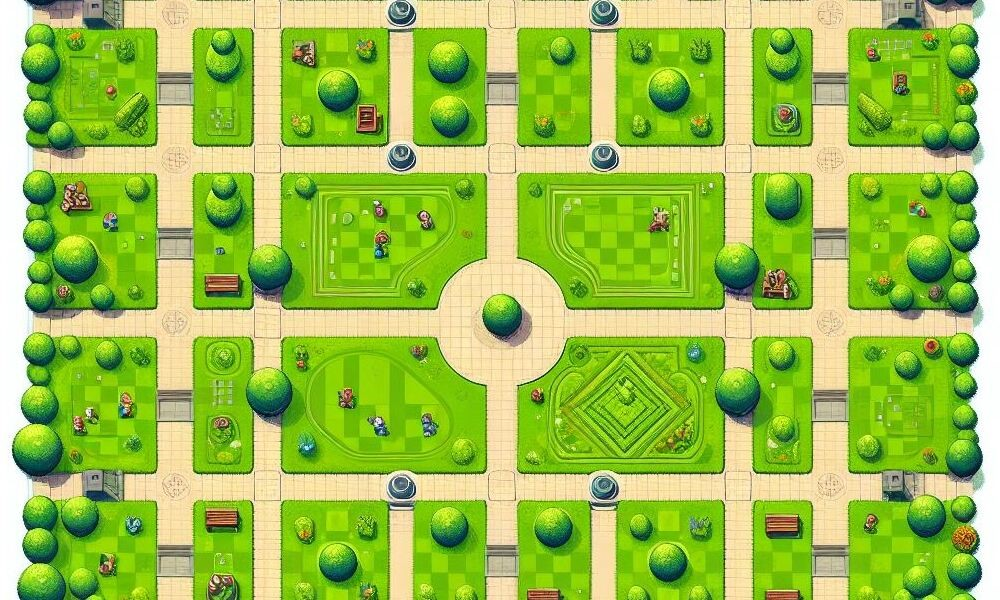
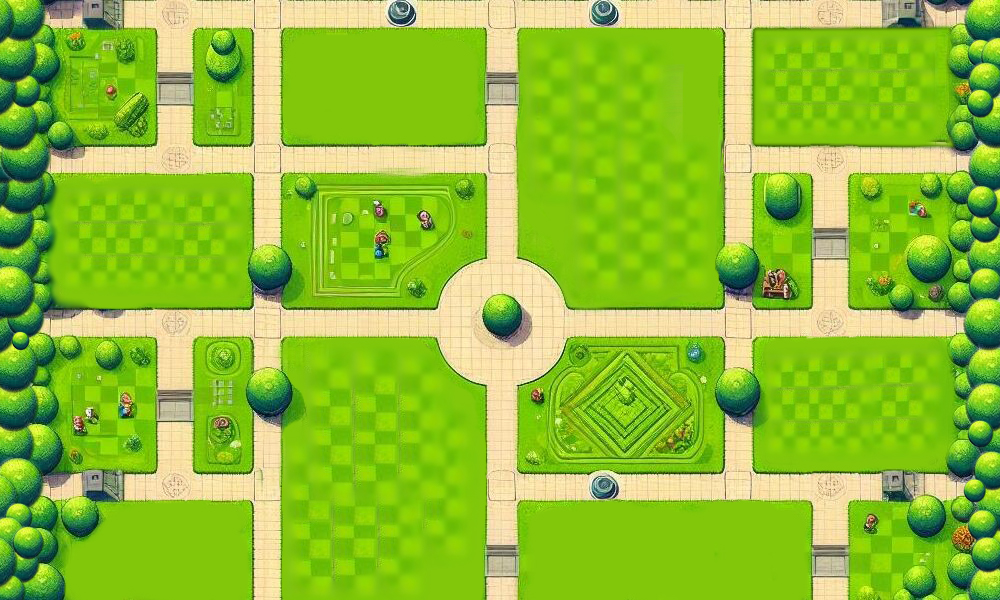
Asset changes
some images are deleted have been switched instead

diff --git a/core/src/com/mygdx/game/SportsVillage.java b/core/src/com/mygdx/game/SportsVillage.java
@@ -7,11 +7,11 @@ public class SportsVillage extends GameLocation {
     public SportsVillage() {
         energyModifier = -30;
         hoursModifier = 3;
-        locationTexture = new Texture("sports_village.jpg");
+        locationTexture = new Texture("sports_village.png");
         position = new Vector2(600, 230);
         bounds.setPosition(position);
-        bounds.width = 180;
-        bounds.height = 101;
+        bounds.width = 125;
+        bounds.height = 100;
     }
     
 }

diff --git a/core/src/com/mygdx/game/StudyBuilding.java b/core/src/com/mygdx/game/StudyBuilding.java
@@ -7,10 +7,10 @@ public class StudyBuilding extends GameLocation {
     public StudyBuilding() {
         energyModifier = -30;
         hoursModifier = 3;
-        locationTexture = new Texture("study_building.jpg");
+        locationTexture = new Texture("study_building.png");
         position = new Vector2(400, 280);
         bounds.setPosition(position);
-        bounds.width = 64;
-        bounds.height = 64;
+        bounds.width = 148;
+        bounds.height = 100;
     }
 }

diff --git a/core/src/com/mygdx/game/Restaurant.java b/core/src/com/mygdx/game/Restaurant.java
@@ -7,10 +7,10 @@ public class Restaurant extends GameLocation {
     public Restaurant() {
         energyModifier = -10;
         hoursModifier = 1;
-        locationTexture = new Texture("restaurant.jpg");
+        locationTexture = new Texture("restaurant.png");
         position = new Vector2(180, 470);
         bounds.setPosition(position);
-        bounds.width = 180;
-        bounds.height = 120;
+        bounds.width = 136;
+        bounds.height = 90;
     }
 }

diff --git a/core/src/com/mygdx/game/Charles.java b/core/src/com/mygdx/game/Charles.java
@@ -6,11 +6,11 @@ public class Charles extends GameLocation{
     public Charles() {
         energyModifier = -20;
         hoursModifier = 2;
-        locationTexture = new Texture("thecharles.jpg");
+        locationTexture = new Texture("thecharles.png");
         position = new Vector2(400, 460);
         bounds.setPosition(position);
-        bounds.width = 180;
-        bounds.height = 135;
+        bounds.width = 135;
+        bounds.height = 80;
     }
     
 }

diff --git a/core/src/com/mygdx/game/House.java b/core/src/com/mygdx/game/House.java
@@ -6,10 +6,10 @@ import com.badlogic.gdx.math.Vector2;
 public class House extends GameLocation {
     public House() {
         energyModifier = 100;
-        locationTexture = new Texture("house.jpg");
+        locationTexture = new Texture("house.png");
         position = new Vector2(100, 200);
         bounds.setPosition(position);
-        bounds.width = 180;
-        bounds.height = 120;
+        bounds.width = 93;
+        bounds.height = 100;
     }
 }

diff --git a/core/src/com/mygdx/game/Lake.java b/core/src/com/mygdx/game/Lake.java
@@ -7,10 +7,10 @@ public class Lake extends GameLocation {
     public Lake() {
         energyModifier = -20;
         hoursModifier = 1;
-        locationTexture = new Texture("lake.jpg");
+        locationTexture = new Texture("lake.png");
         position = new Vector2(410, 80);
         bounds.setPosition(position);
-        bounds.width = 180;
-        bounds.height = 90;
+        bounds.width = 123;
+        bounds.height = 110;
     }
 }
